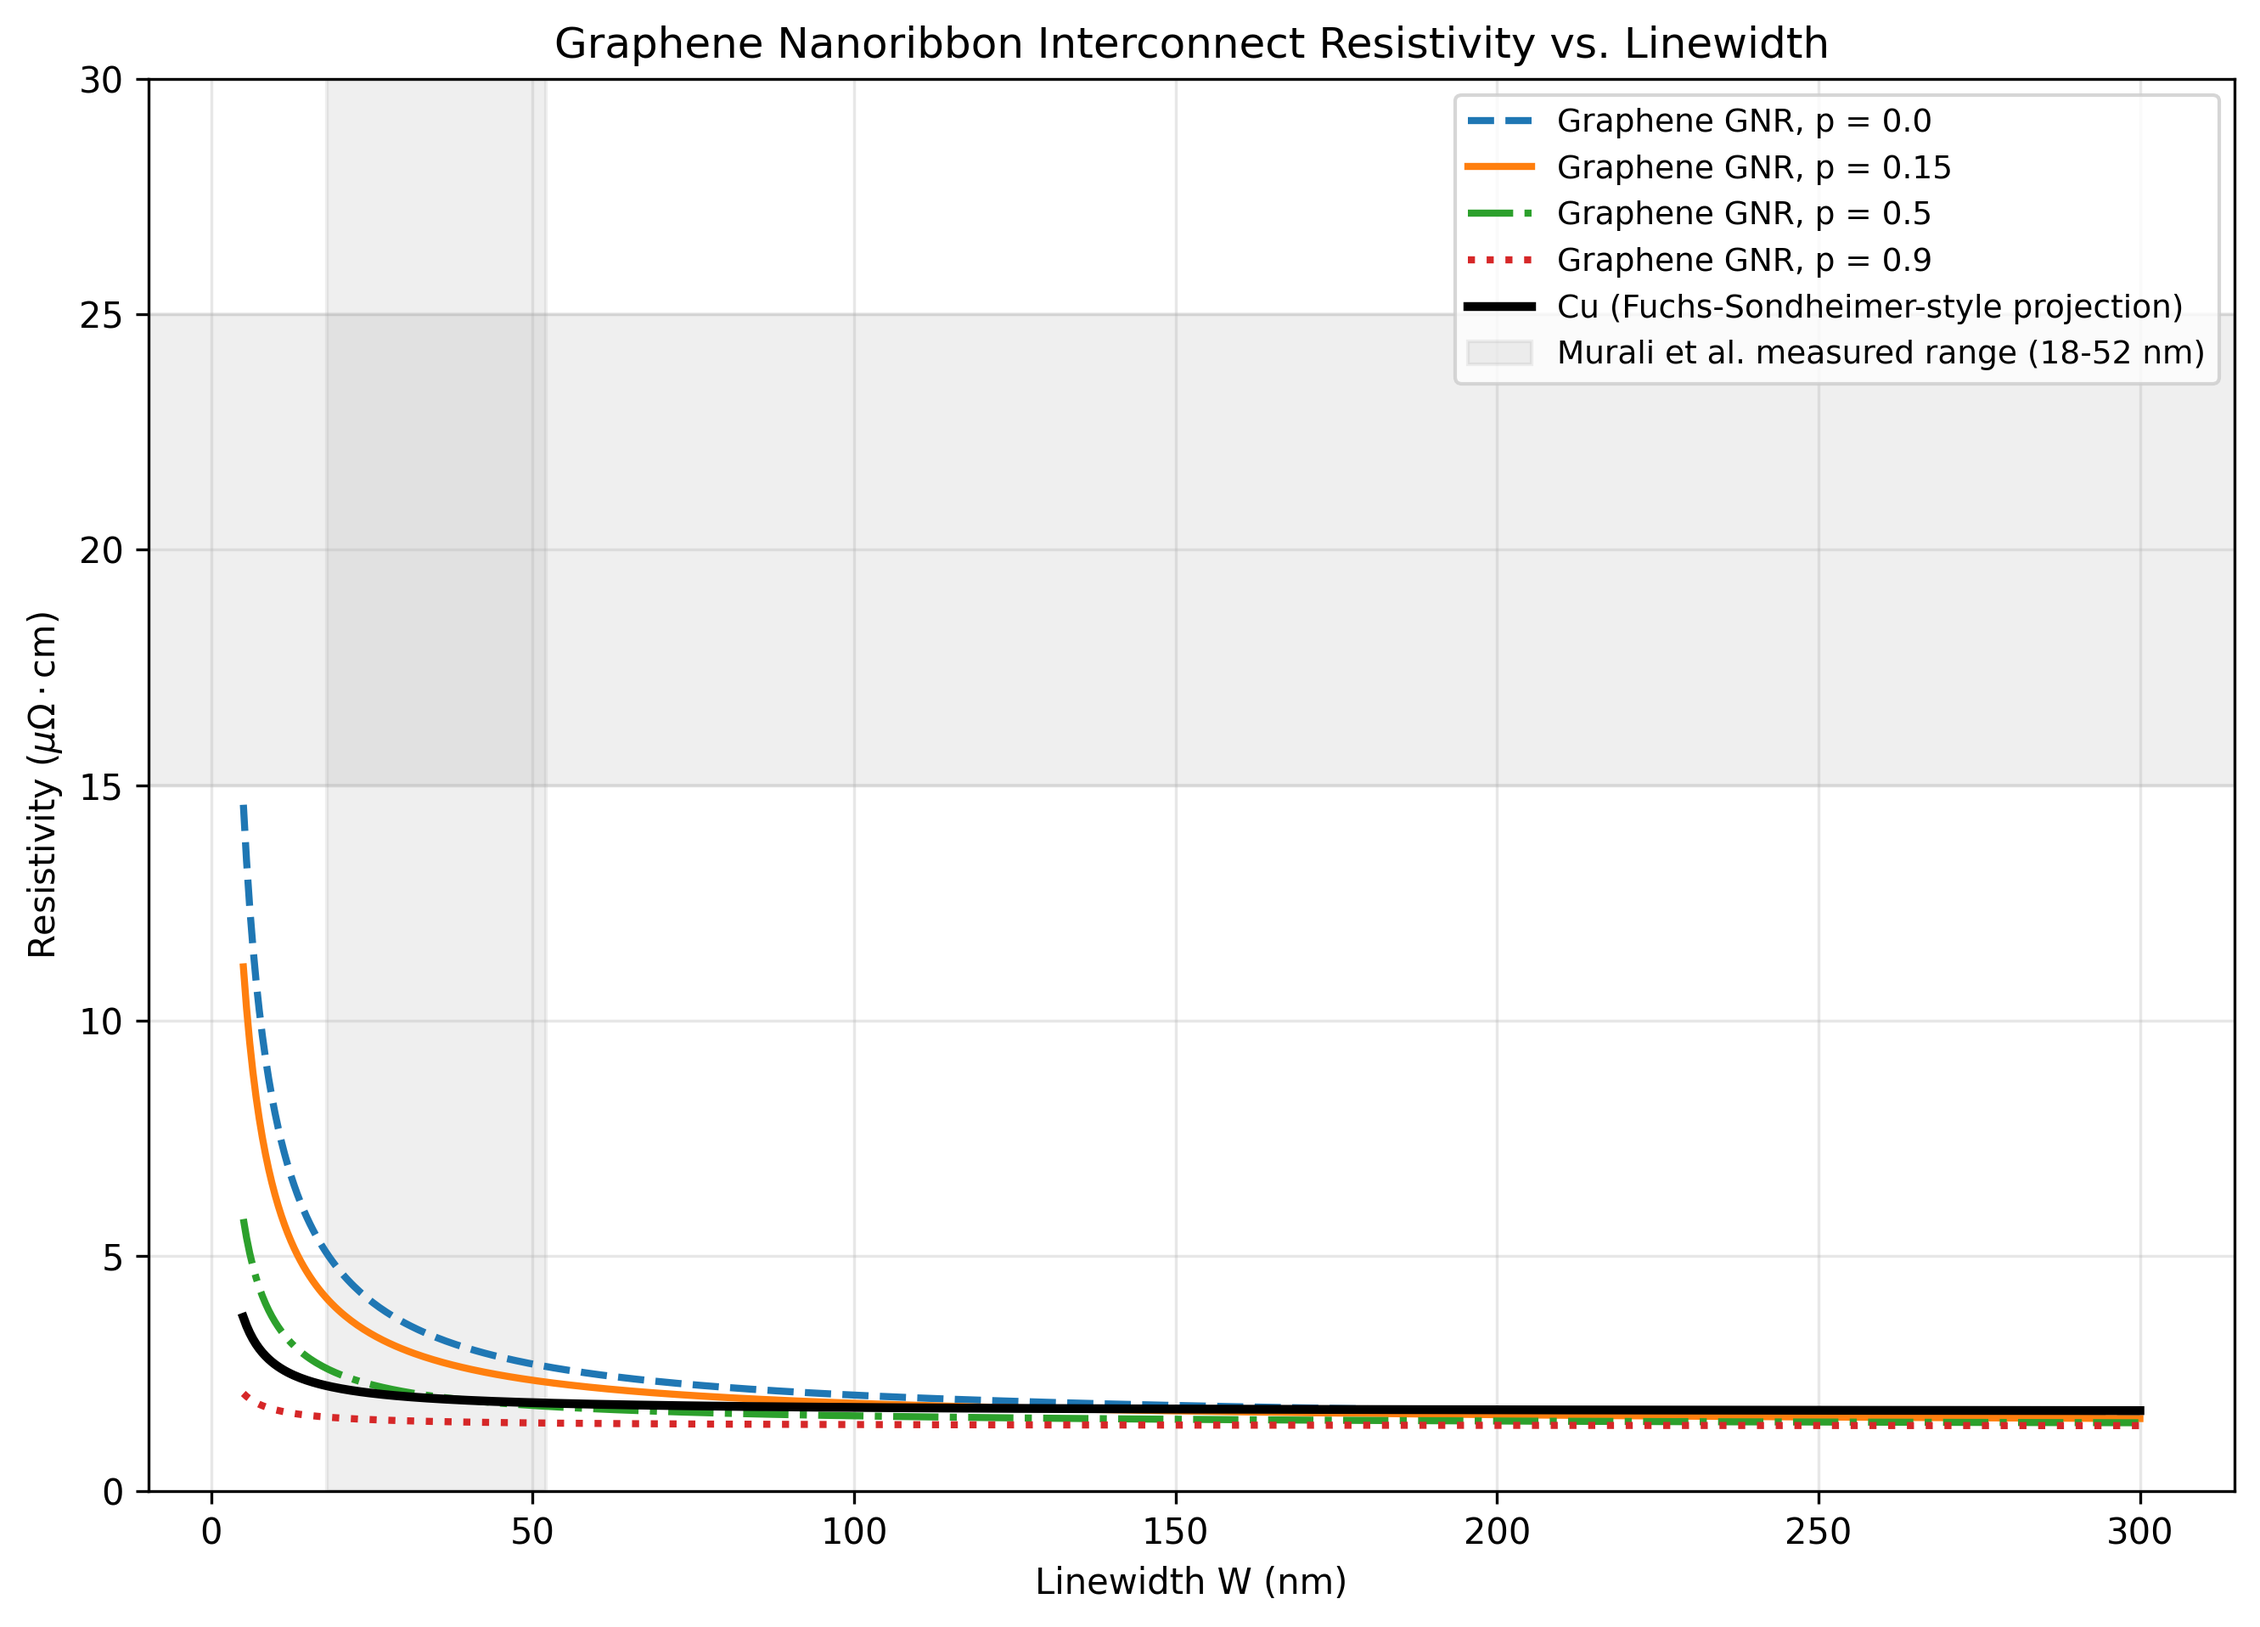
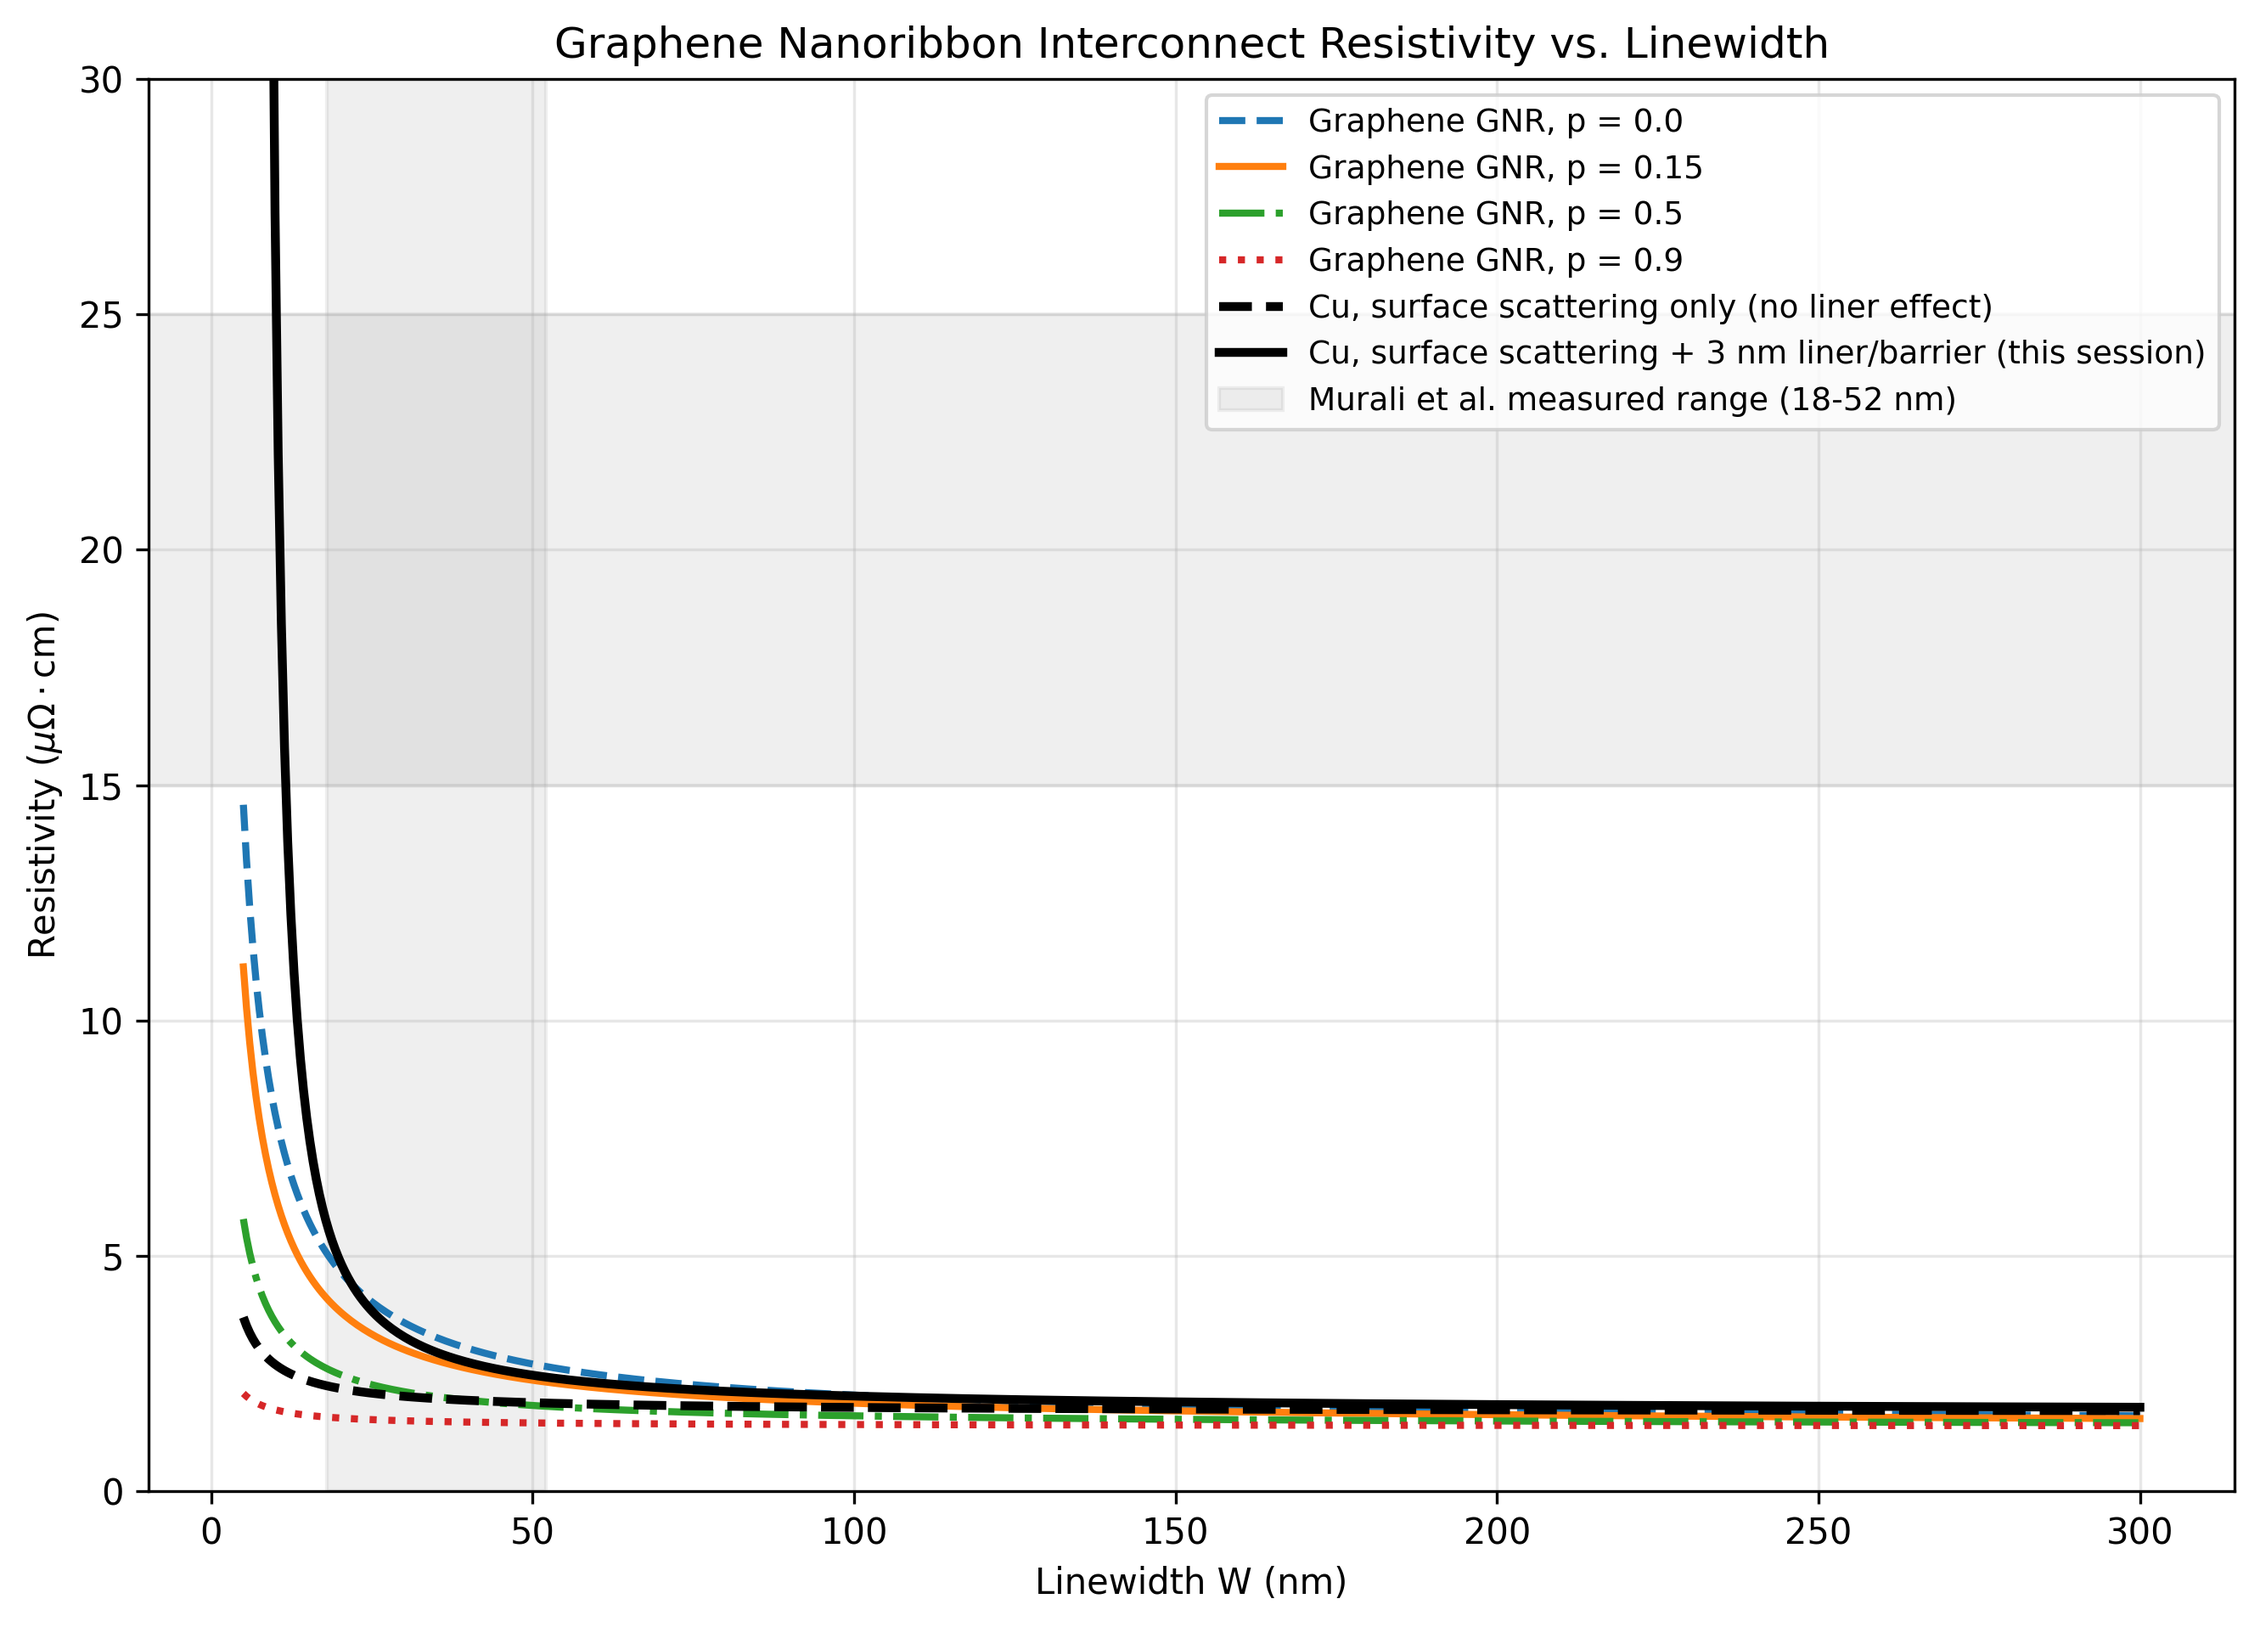
Add liner/barrier-aware copper resistivity model to interconnect comparison
New cu_resistivity_with_liner() adds the diffusion-barrier/adhesion-liner
consumption effect (3 nm/side, literature-calibrated) to the copper
baseline in graphene_interconnect_model.py, alongside the original
surface-scattering-only model rather than replacing it. Below the
liner-consumption floor (W < 6 nm) the model correctly reports no
remaining Cu core (NaN) instead of a finite value. Regenerated
interconnect_resistivity_vs_linewidth.png with both Cu curves overlaid,
and extended summary_numbers() to report crossover widths against both
Cu baselines. Result: at realistic edge quality (p=0.15), graphene stays
below the liner-aware Cu model across the entire modeled range, versus
only above W~130nm against the old surface-scattering-only baseline.

diff --git a/graphene_interconnect_model.py b/graphene_interconnect_model.py
@@ -46,11 +46,31 @@ sharply as W is scaled down due to edge scattering, and only becomes
 competitive with (eventually, in the idealized single-layer limit,
 better than) Cu at aggressively scaled linewidths.
 
+2026-08-28 update: the Cu comparison baseline below originally modeled
+surface/grain-boundary scattering only, and explicitly noted that this
+made it a conservative (upper-bound) estimate of scaled-Cu performance
+because it omitted the diffusion-barrier/adhesion-liner layer that a
+real damascene Cu interconnect requires -- a layer whose thickness does
+not scale down with linewidth and so consumes a growing cross-section
+fraction as W shrinks. `cu_resistivity_with_liner()` adds that effect as
+a separate, explicit correction (see
+notes/2026-08-28-copper-liner-barrier-thickness-effect.md for the
+literature basis and derivation), so both the original surface-
+scattering-only curve and the new liner-aware curve are available for
+comparison.
+
 References: see notes/2026-08-23-interconnect-resistivity-vs-linewidth.md
   - Murali et al., "Resistivity of Graphene Nanoribbon Interconnects,"
     arXiv:0906.0924
   - Naeemi & Meindl, "Conductance modeling for graphene nanoribbon (GNR)
     interconnects," IEEE EDL 28, 428 (2007)
+
+References for the 2026-08-28 liner/barrier addition: see
+notes/2026-08-28-copper-liner-barrier-thickness-effect.md
+  - Domenichini et al., "Selecting alternative metals for advanced
+    interconnects," arXiv:2406.09106
+  - "Mechanisms of Scaling Effect for Emerging Nanoscale Interconnect
+    Materials," Nanomaterials 12(10), 1760 (2022)
 """
 
 import numpy as np
@@ -165,19 +185,88 @@ def cu_resistivity_vs_width(W_nm):
     return rho_cu_bulk_uohm_cm * F
 
 
+# ---------------------------------------------------------------------------
+# Cu liner/barrier-thickness effect (added 2026-08-28; see
+# notes/2026-08-28-copper-liner-barrier-thickness-effect.md for the
+# literature basis and full derivation). The Cu model above is
+# surface-scattering-only and was explicitly flagged in the Chapter 5
+# draft and this file's original docstring as omitting the diffusion-
+# barrier/adhesion-liner layer that a real damascene Cu interconnect
+# requires -- a layer whose thickness does not scale down with linewidth
+# and therefore consumes a growing fraction of the wire's cross-section
+# as W shrinks. This section adds that effect as a separate, explicit
+# correction rather than folding it into cu_resistivity_vs_width(), so
+# the "surface-scattering-only" and "surface-scattering + liner" curves
+# can still be compared directly.
+# ---------------------------------------------------------------------------
+
+# Combined barrier (TaN) + adhesion-liner (Co) thickness for a
+# conventional Cu damascene stack, per sidewall/dimension. Literature
+# value from the Nanomaterials 12(10), 1760 (2022) resistance
+# calculations (3 nm for a Cu/TaN-Co stack), consistent with the ~2-3 nm
+# functional floor reported by Domenichini et al., arXiv:2406.09106.
+t_liner_nm_default = 3.0
+
+
+def cu_resistivity_with_liner(W_nm, t_liner_nm=t_liner_nm_default):
+    """
+    Effective Cu resistivity (uOhm.cm) *including* the non-conducting
+    barrier/liner's consumption of the drawn cross-section, evaluated
+    across a drawn linewidth W_nm (nm) that includes the liner on both
+    sides -- i.e. W_nm is the "linewidth (w + 2t)" quantity used in the
+    Nanomaterials review this is calibrated against, not the bare Cu
+    core width.
+
+    Model (see notes/2026-08-28-*.md, Section 4, for the full
+    derivation): treating the liner/barrier as non-conducting and
+    assuming the wire's two in-plane dimensions scale together, the
+    remaining Cu core has effective width/height W_eff = W - 2*t_liner.
+    The reported resistivity combines two compounding effects:
+
+      1. The remaining Cu core is itself narrower, so it is *more*
+         surface-scattering-limited than a same-drawn-width, no-liner
+         wire would be -- captured by evaluating the existing
+         Fuchs-Sondheimer-style cu_resistivity_vs_width() at W_eff
+         rather than at W.
+      2. That core-limited resistivity is measured across the full
+         drawn cross-section (the quantity a process/design actually
+         allocates), which dilutes the effective conductance by the
+         ratio of drawn area to conducting area, (W / W_eff)^2, for a
+         cross-section scaling isotropically in both in-plane
+         dimensions.
+
+    Below W = 2*t_liner_nm, the liner/barrier consumes the entire drawn
+    cross-section and there is no remaining Cu core -- this is flagged
+    explicitly by returning NaN (not a large-but-finite number), since a
+    real process simply cannot form a conducting Cu wire in that regime.
+    """
+    W_arr = np.atleast_1d(np.asarray(W_nm, dtype=float))
+    W_eff = W_arr - 2.0 * t_liner_nm
+
+    with np.errstate(divide='ignore', invalid='ignore'):
+        rho_core = cu_resistivity_vs_width(np.where(W_eff > 0, W_eff, np.nan))
+        area_dilution = (W_arr / np.where(W_eff > 0, W_eff, np.nan)) ** 2
+        rho_eff = rho_core * area_dilution
+
+    rho_eff = np.where(W_eff > 0, rho_eff, np.nan)
+
+    if np.isscalar(W_nm) or (hasattr(W_nm, 'ndim') and W_nm.ndim == 0):
+        return float(rho_eff[0])
+    return rho_eff
+
+
 def plot_resistivity_vs_linewidth():
-    """Plot graphene (several specularity values) and Cu resistivity vs.
-    linewidth, reproducing the qualitative crossover behavior discussed
-    in the notes: graphene is less conductive than Cu at the
-    lithographically-relevant widths measured to date (tens of nm), and
-    the model's idealized specular-edge (p -> 1) case is required to
-    approach Cu-competitive resistivity, consistent with the Naeemi &
-    Meindl theoretical crossover being pushed to very narrow widths in
-    the idealized single-layer limit. Note this compact model's p=0.9
-    (near-specular) curve is already below the Cu model across the whole
-    plotted range -- see summary_numbers() / AUTOMATION_LOG.md for the
-    realistic (p=0.15, diffuse-edge) crossover width, which is the more
-    process-relevant number."""
+    """Plot graphene (several specularity values) against *two* Cu
+    resistivity models vs. linewidth: the original surface-scattering-
+    only baseline, and the surface-scattering + liner/barrier model added
+    2026-08-28 (see notes/2026-08-28-copper-liner-barrier-thickness-
+    effect.md). Against the surface-scattering-only Cu baseline, realistic
+    (p=0.15, diffuse-edge) graphene only wins at wide W (see
+    summary_numbers() for the crossover width); against the liner-aware
+    Cu model, realistic-edge graphene wins across the entire valid W
+    range plotted here -- see summary_numbers() / AUTOMATION_LOG.md for
+    both crossover results side by side, which is the more complete,
+    process-relevant comparison than either Cu curve alone."""
     W_nm = np.linspace(5, 300, 600)
 
     fig, ax = plt.subplots(figsize=(9, 6.5))
@@ -187,7 +276,12 @@ def plot_resistivity_vs_linewidth():
         ax.plot(W_nm, rho, style, linewidth=2, label=f'Graphene GNR, p = {p}')
 
     rho_cu = cu_resistivity_vs_width(W_nm)
-    ax.plot(W_nm, rho_cu, color='black', linewidth=2.5, label='Cu (Fuchs-Sondheimer-style projection)')
+    ax.plot(W_nm, rho_cu, color='black', linewidth=2.5, linestyle='--',
+            label='Cu, surface scattering only (no liner effect)')
+
+    rho_cu_liner = cu_resistivity_with_liner(W_nm)
+    ax.plot(W_nm, rho_cu_liner, color='black', linewidth=2.5,
+            label=f'Cu, surface scattering + {t_liner_nm_default:.0f} nm liner/barrier (this session)')
 
     # Overlay the literature measured cluster (Murali et al.) as a shaded band
     ax.axvspan(18, 52, color='gray', alpha=0.12, label='Murali et al. measured range (18-52 nm)')
@@ -217,28 +311,48 @@ def summary_numbers():
 
     rho_cu_22 = cu_resistivity_vs_width(22.0)
     rho_cu_8 = cu_resistivity_vs_width(8.0)
-    print(f"Cu model: rho(W=22nm) = {rho_cu_22:.2f} uOhm.cm, "
+    print(f"Cu model (surface scattering only): rho(W=22nm) = {rho_cu_22:.2f} uOhm.cm, "
           f"rho(W=8nm) = {rho_cu_8:.2f} uOhm.cm")
 
+    rho_cu_liner_22 = cu_resistivity_with_liner(22.0)
+    rho_cu_liner_12 = cu_resistivity_with_liner(12.0)
+    print(f"Cu model (surface scattering + {t_liner_nm_default:.0f}nm liner/barrier, "
+          f"added 2026-08-28): rho(W=22nm) = {rho_cu_liner_22:.2f} uOhm.cm, "
+          f"rho(W=12nm) = {rho_cu_liner_12:.2f} uOhm.cm (W=8nm is below the "
+          f"W = 2*t_liner = {2*t_liner_nm_default:.0f}nm floor -- no Cu core remains, "
+          f"model returns NaN as flagged in cu_resistivity_with_liner()'s docstring)")
+
     # Find the actual crossover width (if any, within a wide scan range)
-    # where each graphene curve drops below the Cu model, via a genuine
-    # sign change of (rho_graphene - rho_cu) rather than a naive
+    # where each graphene curve drops below a given Cu model, via a
+    # genuine sign change of (rho_graphene - rho_cu) rather than a naive
     # closest-point search (which can misleadingly report a "crossover"
     # at the edge of the scan range even when the curves never cross).
-    W_scan = np.linspace(2, 500, 20000)
-    for p, label in [(p_default, "realistic, diffuse edges"), (0.9, "idealized, near-specular edges")]:
-        rho_g = resistivity_vs_width(W_scan, p=p)
-        rho_cu = cu_resistivity_vs_width(W_scan)
-        diff = rho_g - rho_cu
-        sign_changes = np.where(np.diff(np.sign(diff)) != 0)[0]
-        if len(sign_changes) == 0:
-            state = "below" if diff[0] < 0 else "above"
-            print(f"p = {p:.2f} ({label}): graphene stays {state} the Cu "
-                  f"model across the full W = 2-500 nm scan range (no crossover).")
-        else:
-            W_cross = W_scan[sign_changes[0]]
-            print(f"p = {p:.2f} ({label}): graphene crosses below Cu at "
-                  f"approx. W = {W_cross:.0f} nm.")
+    # Repeated for both the original surface-scattering-only Cu model and
+    # the 2026-08-28 liner-aware Cu model, so the shift in crossover width
+    # caused specifically by the liner effect is visible directly.
+    def _report_crossovers(cu_model_fn, cu_model_label):
+        W_scan = np.linspace(2, 500, 20000)
+        rho_cu_scan = cu_model_fn(W_scan)
+        valid = ~np.isnan(rho_cu_scan)
+        for p, label in [(p_default, "realistic, diffuse edges"), (0.9, "idealized, near-specular edges")]:
+            rho_g = resistivity_vs_width(W_scan, p=p)
+            diff = np.where(valid, rho_g - rho_cu_scan, np.nan)
+            finite = np.isfinite(diff)
+            sign_changes = np.where(np.diff(np.sign(diff[finite])) != 0)[0]
+            W_valid = W_scan[finite]
+            if len(sign_changes) == 0:
+                state = "below" if diff[finite][0] < 0 else "above"
+                print(f"  p = {p:.2f} ({label}): graphene stays {state} {cu_model_label} "
+                      f"across the full valid scan range (no crossover).")
+            else:
+                W_cross = W_valid[sign_changes[0]]
+                print(f"  p = {p:.2f} ({label}): graphene crosses below {cu_model_label} at "
+                      f"approx. W = {W_cross:.0f} nm.")
+
+    print("Crossover vs. Cu, surface scattering only:")
+    _report_crossovers(cu_resistivity_vs_width, "the surface-scattering-only Cu model")
+    print("Crossover vs. Cu, surface scattering + liner/barrier (2026-08-28):")
+    _report_crossovers(cu_resistivity_with_liner, "the liner-aware Cu model")
 
 
 if __name__ == '__main__':
